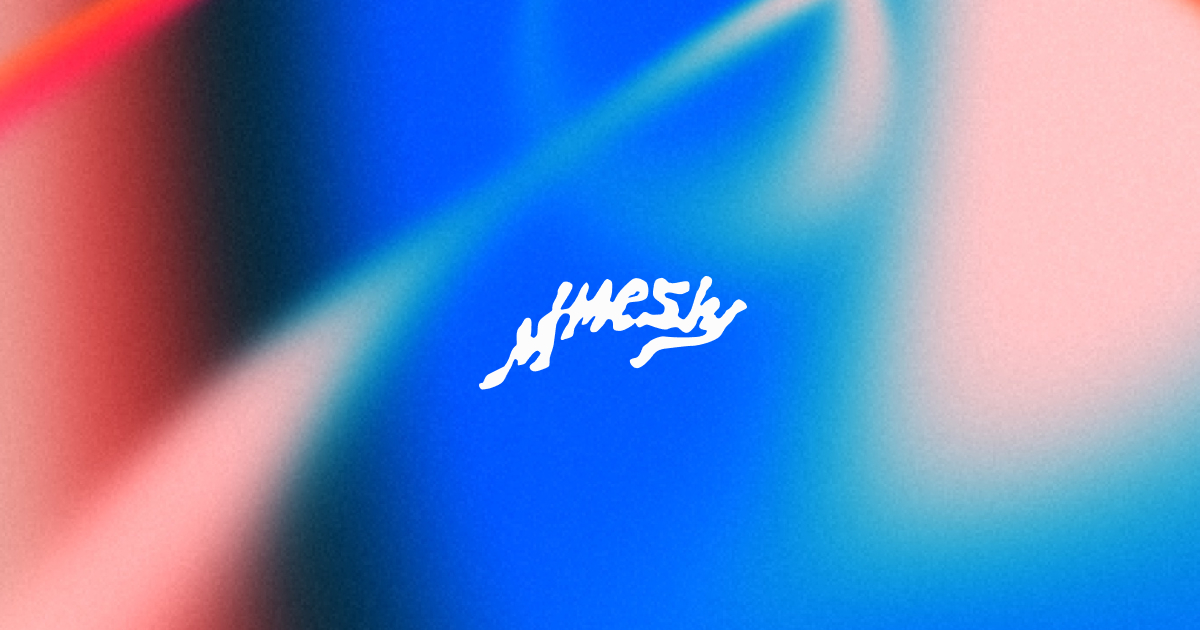
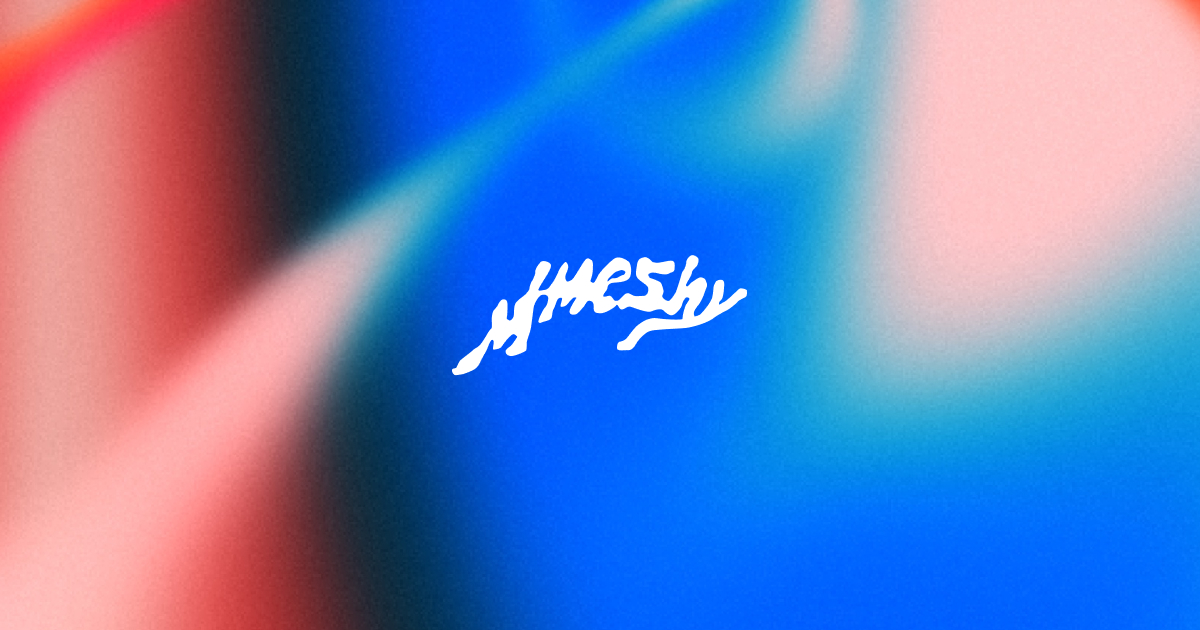
New OG image (cache-busted with ?v=2); cooler default pencil stroke color

diff --git a/meshygradient.html b/meshygradient.html
@@ -12,13 +12,13 @@
 <meta property="og:title" content="mmeshy - Make beautiful mesh gradients">
 <meta property="og:description" content="Design buttery smooth mesh gradients in the browser and export high-res images. All for free.">
 <meta property="og:url" content="https://mmeshy.com/">
-<meta property="og:image" content="https://mmeshy.com/open-graph.jpg">
+<meta property="og:image" content="https://mmeshy.com/open-graph.jpg?v=2">
 <meta property="og:image:width" content="1200">
 <meta property="og:image:height" content="630">
 <meta name="twitter:card" content="summary_large_image">
 <meta name="twitter:title" content="mmeshy - make beautiful mesh gradients">
 <meta name="twitter:description" content="Design buttery smooth mesh gradients in the browser and export high-res images. All for free.">
-<meta name="twitter:image" content="https://mmeshy.com/open-graph.jpg">
+<meta name="twitter:image" content="https://mmeshy.com/open-graph.jpg?v=2">
 <link rel="icon" type="image/png" href="/favicon.png">
 <link rel="preconnect" href="https://fonts.googleapis.com">
 <link href="https://fonts.googleapis.com/css2?family=Instrument+Sans:ital,wght@0,400..700;1,400..700&family=Geist:wght@400;500&family=Geist+Mono:wght@400&display=swap" rel="stylesheet">

diff --git a/src/interaction.js b/src/interaction.js
@@ -182,7 +182,7 @@ function strokeScreen(n) {
 
 // Every new stroke starts the same, whatever is selected or was drawn before: this colour and this hardness (the
 // dotted ring), the pencil's own values, separate from the defaults a circle or arc gets.
-const STROKE_START_COLOR = '#d5d5d5';
+const STROKE_START_COLOR = '#c3cbcd';
 const STROKE_START_K = 2.5;
 function beginDraw(e, p) {
   if (state.nodes.length >= MAXN) { setStatus(`Limit of ${MAXN} nodes reached.`, true); return; }
